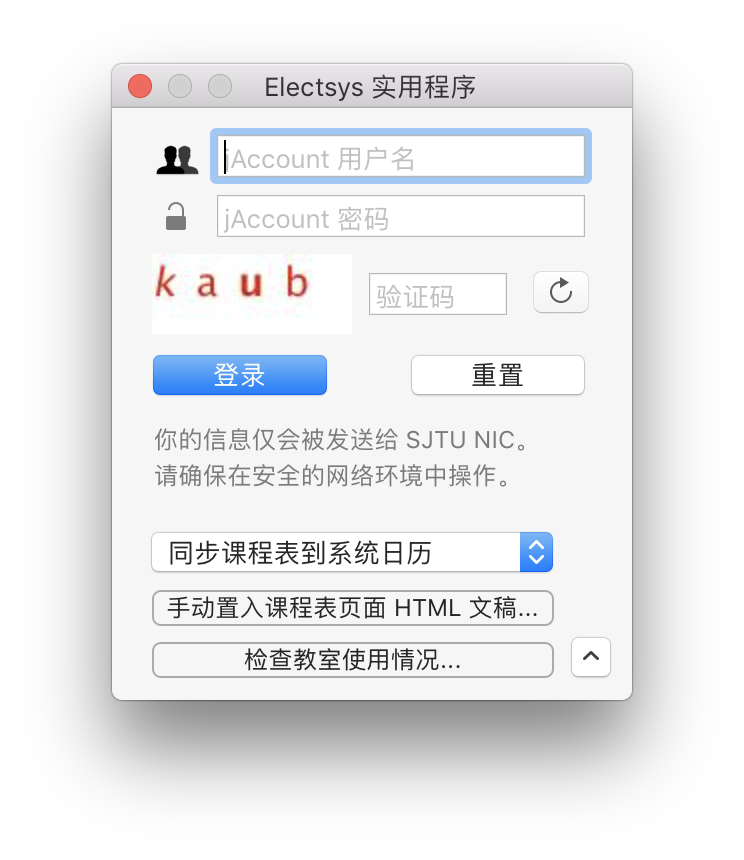
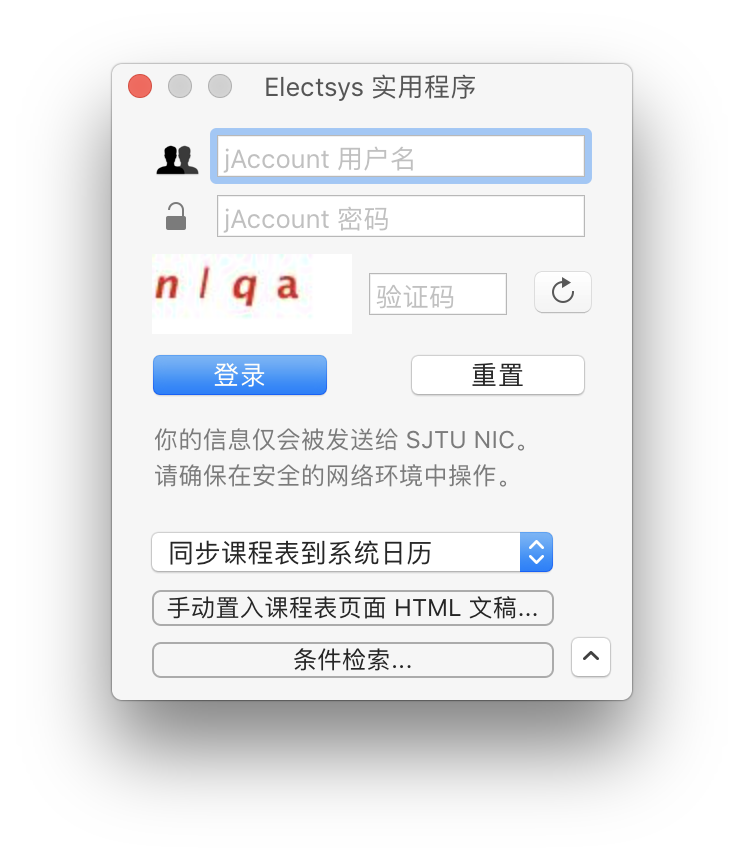
更新 README.md

diff --git a/README.md b/README.md
@@ -36,8 +36,15 @@
 * [CrossroadRegex](https://github.com/crossroadlabs/Regex)
 
 # 屏幕截图
-## 查看教室安排情况
-![](https://raw.githubusercontent.com/yuxiqian/Electsys-Utility/master/Electsys%20Utility/Screenshots/教室使用情况界面.png)
+## 在课程库中筛选
+### 按教室
+![](https://raw.githubusercontent.com/yuxiqian/Electsys-Utility/master/Electsys%20Utility/Screenshots/按教室筛选.png)
+
+### 按教师
+![](https://raw.githubusercontent.com/yuxiqian/Electsys-Utility/master/Electsys%20Utility/Screenshots/按教师筛选.png)
+
+### 按课程名称
+![](https://raw.githubusercontent.com/yuxiqian/Electsys-Utility/master/Electsys%20Utility/Screenshots/按课名筛选.png)
 
 ## 同步课程到系统日历
 ![](https://raw.githubusercontent.com/yuxiqian/Electsys-Utility/master/Electsys%20Utility/Screenshots/系统日历.png)
